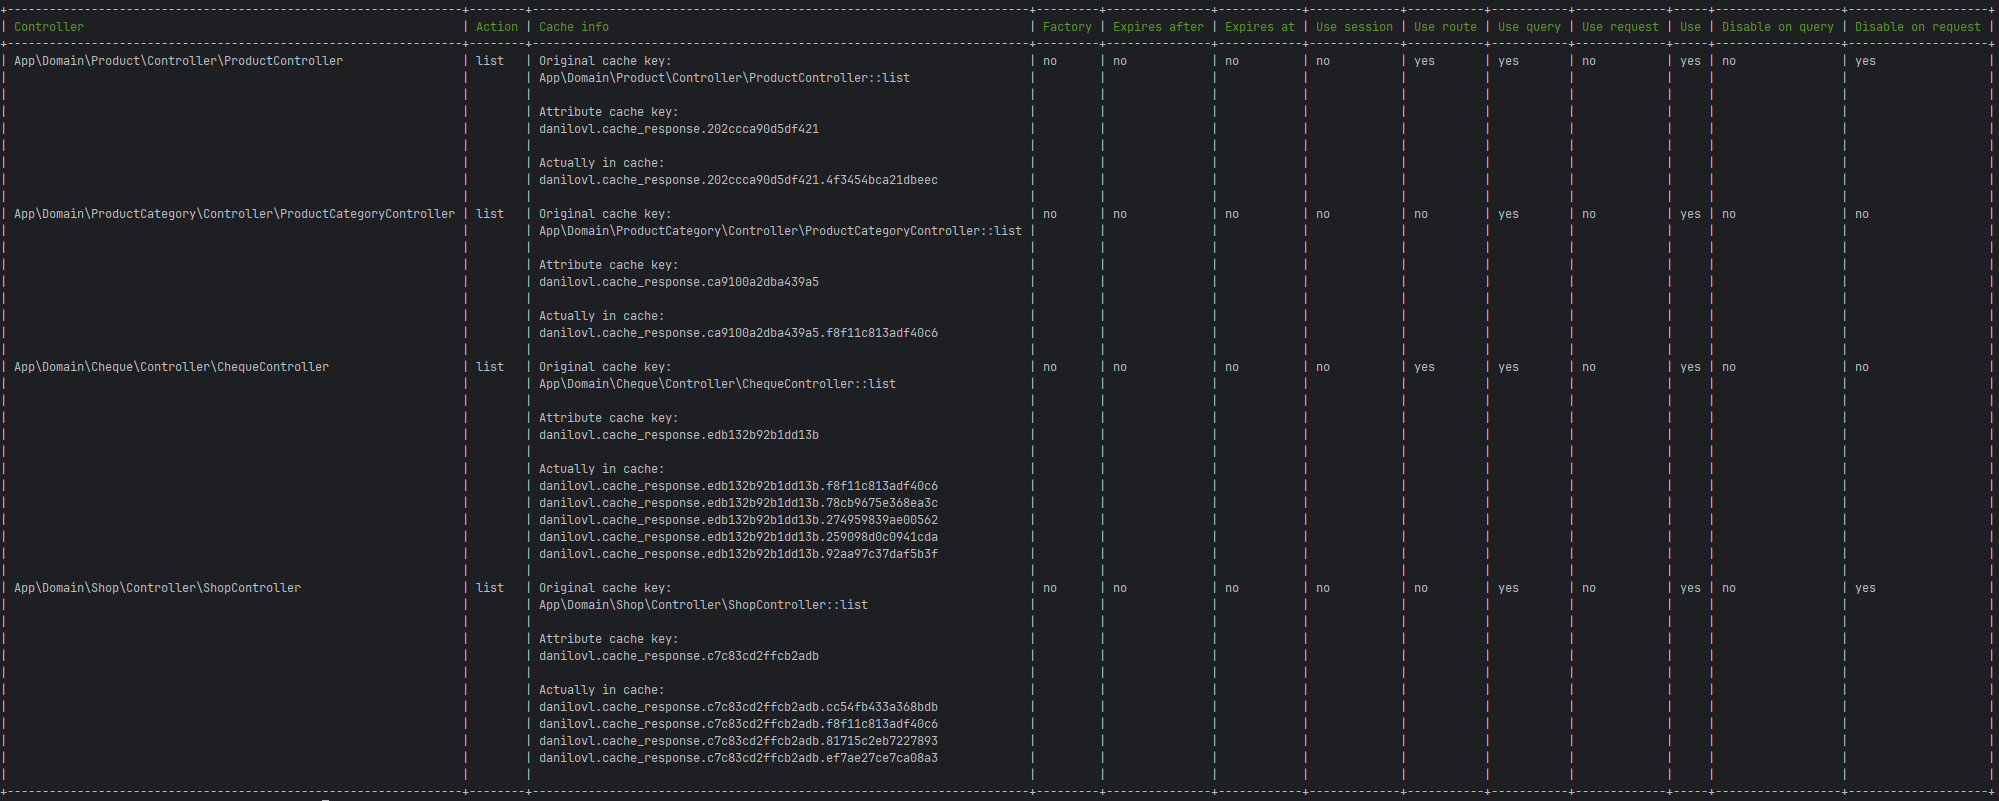
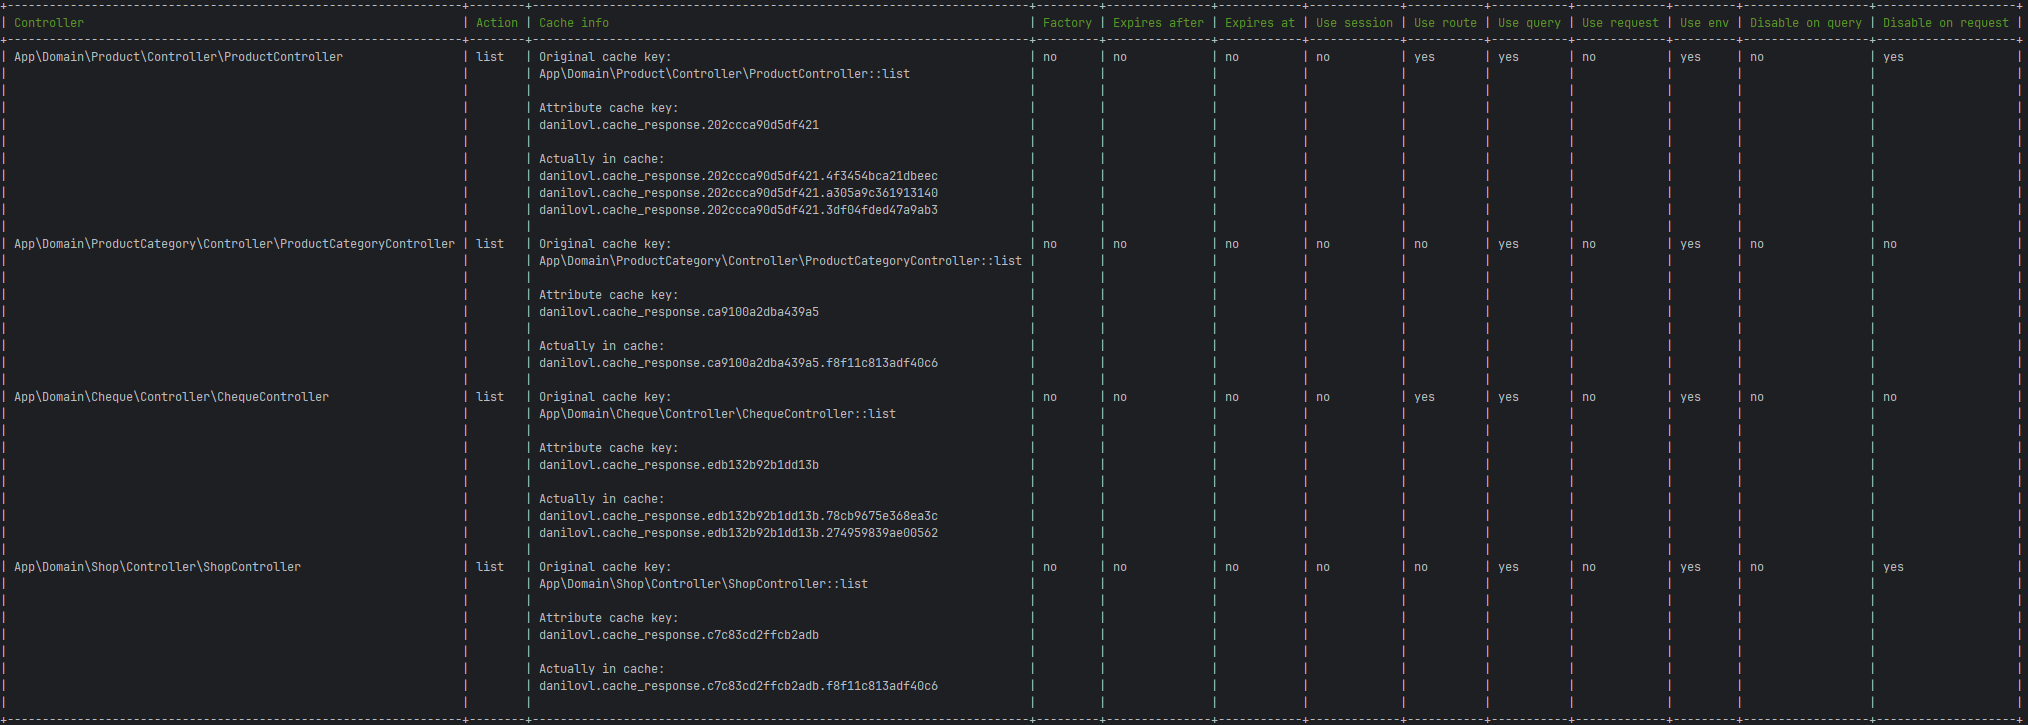
CacheResponseListCommand - update table header name.

diff --git a/src/Command/CacheResponseListCommand.php b/src/Command/CacheResponseListCommand.php
@@ -43,7 +43,7 @@ class CacheResponseListCommand extends Command
                 'Use route',
                 'Use query',
                 'Use request',
-                'Use',
+                'Use env',
                 'Disable on query',
                 'Disable on request'
             ]);
